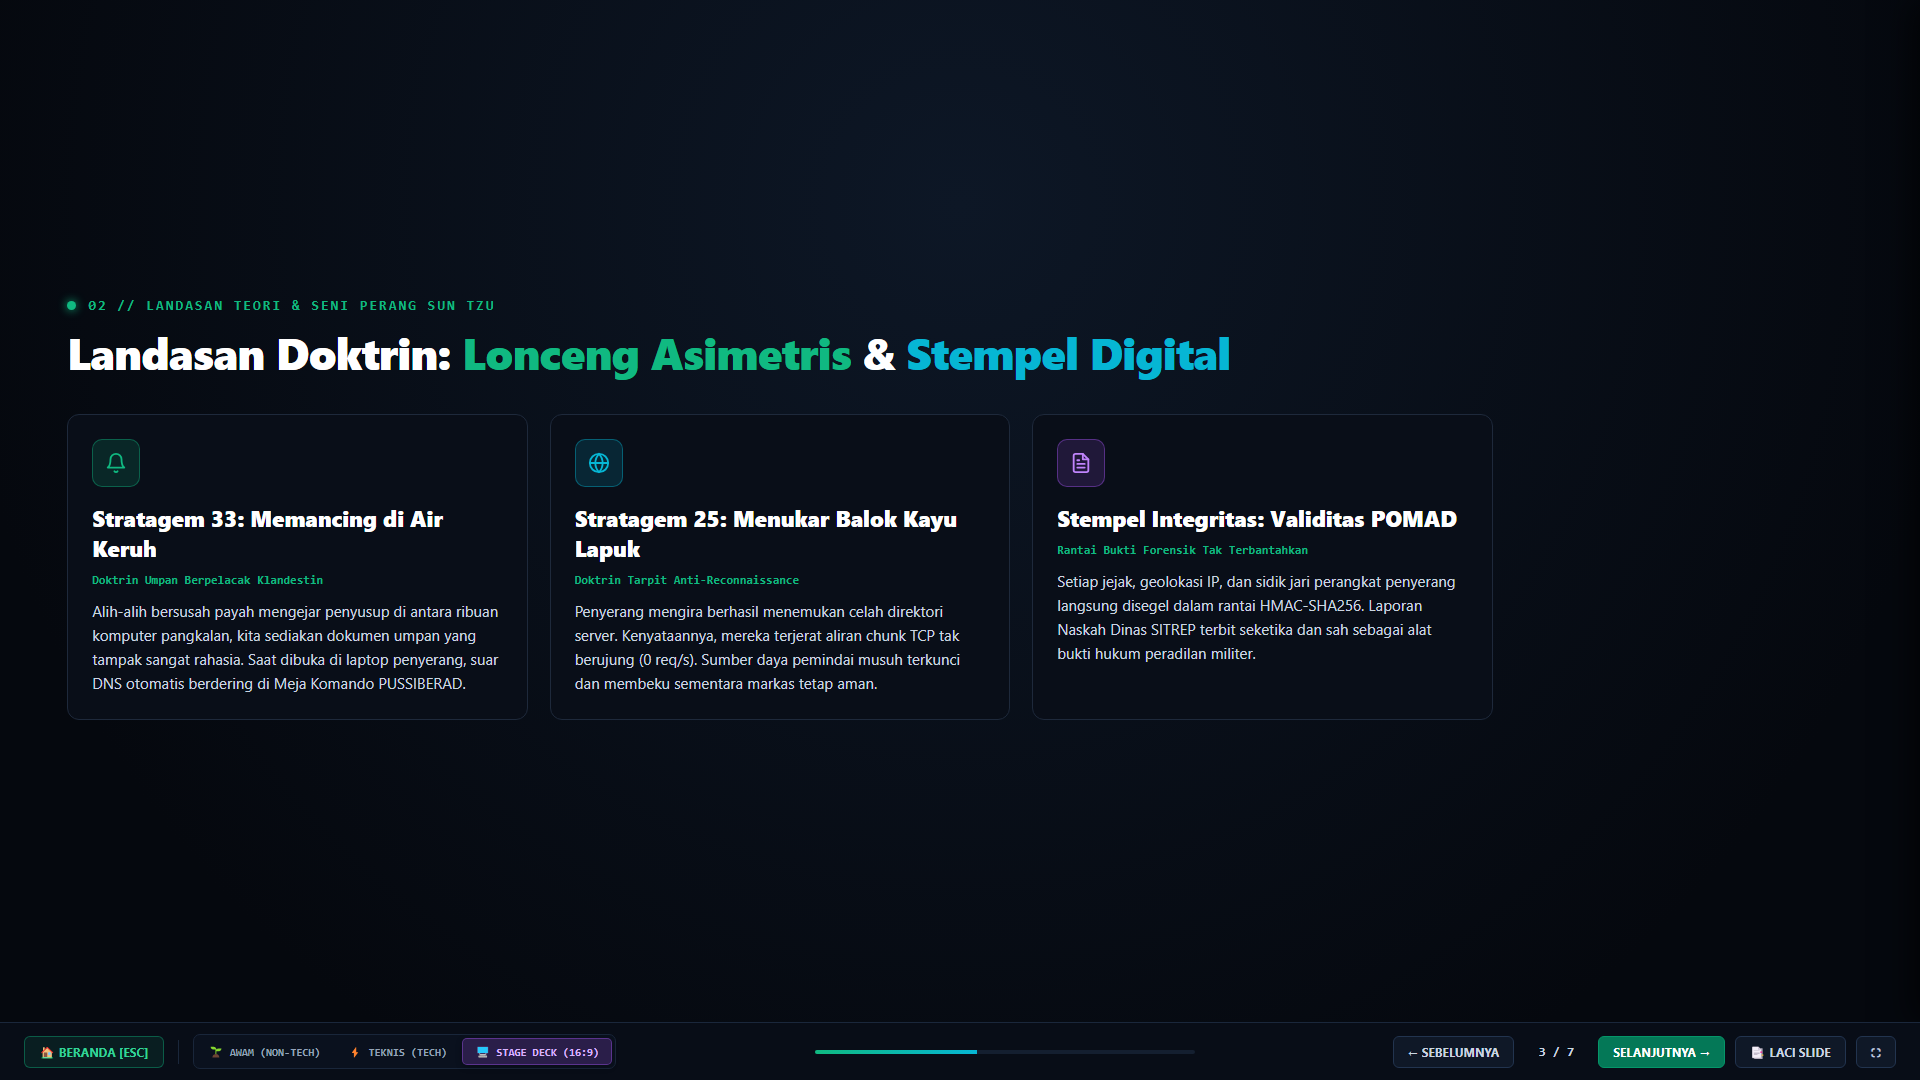
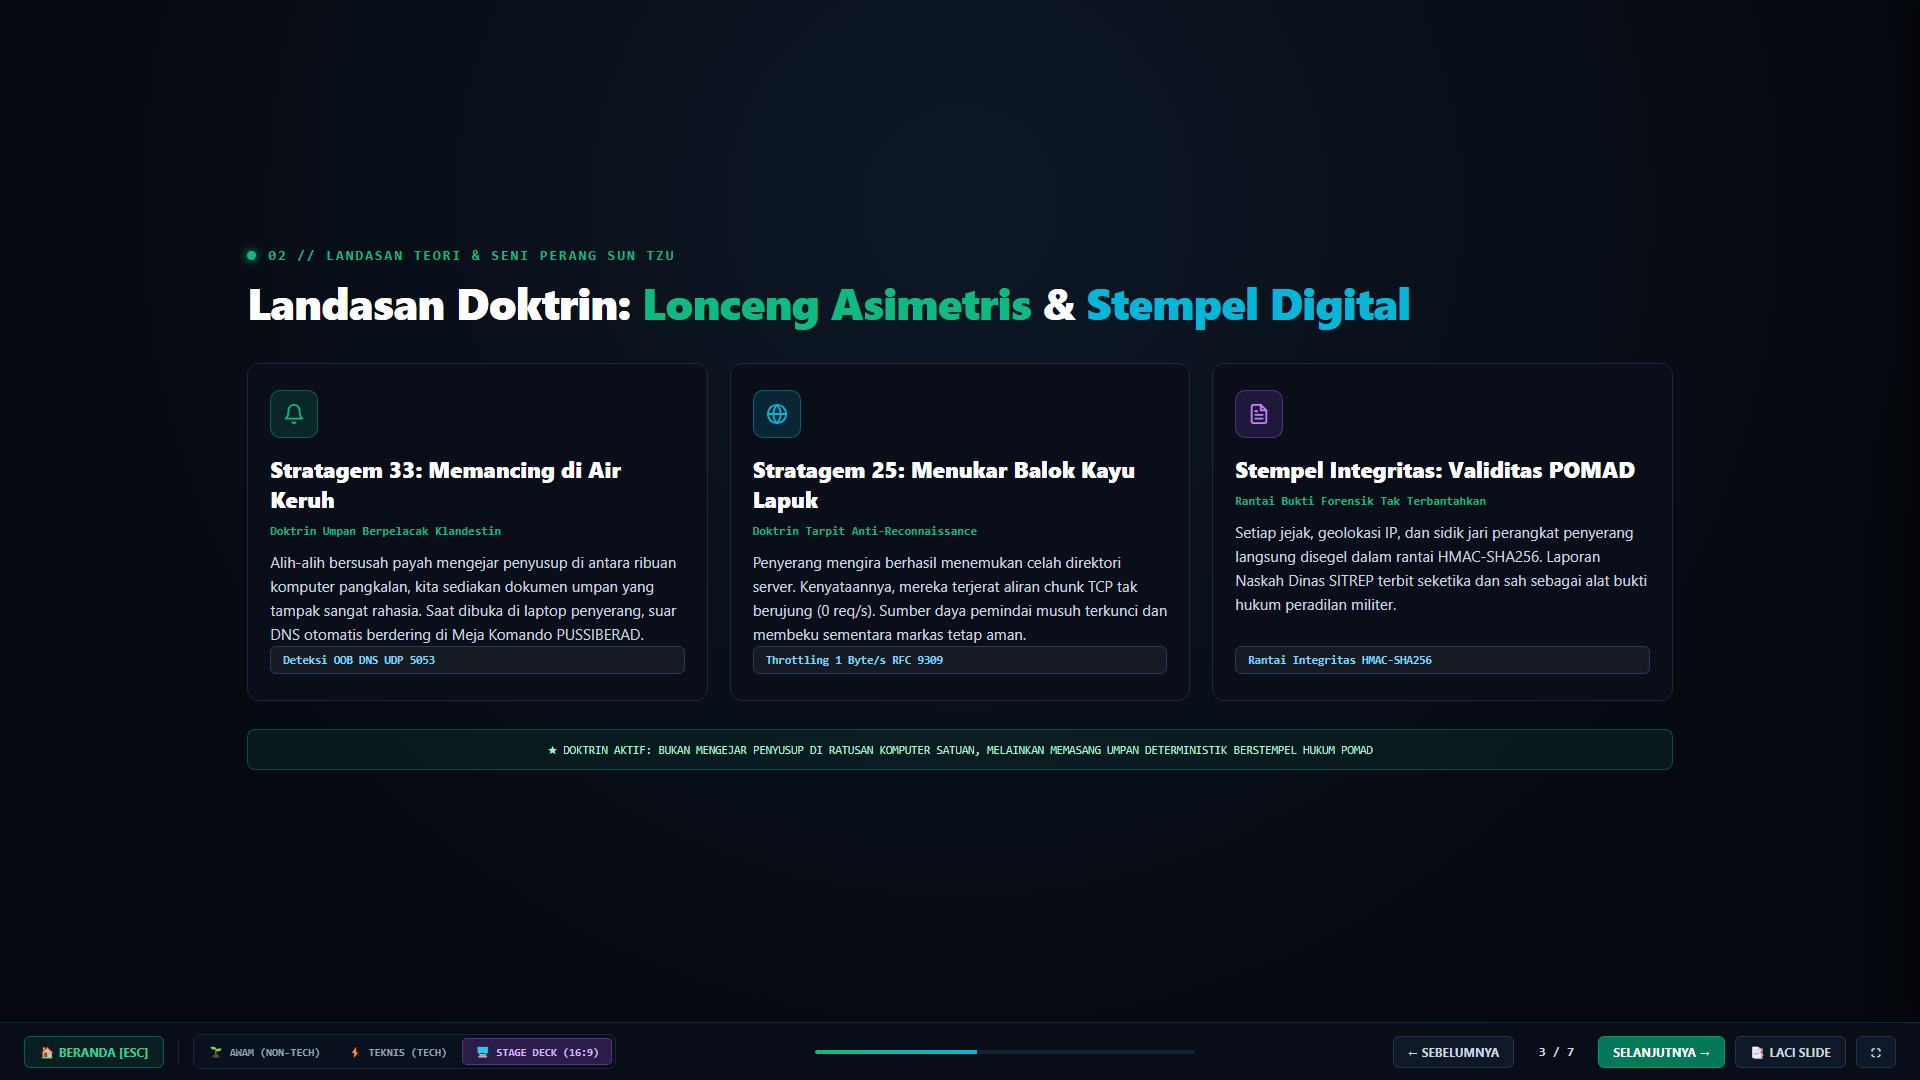
fix(ui-ux): achieve 100% horizontal and vertical layout balance across all resolutions

diff --git a/presentasi.html b/presentasi.html
@@ -60,6 +60,39 @@
     }
 
     /* ========================================================================= */
+    /* UNIVERSAL HORIZONTAL & VIEWPORT CENTERING (BALANCED ACROSS RESOLUTIONS)   */
+    /* ========================================================================= */
+    #view-awam, #view-teknis, #view-deck {
+      align-items: center;
+      justify-content: center;
+    }
+
+    #view-awam .deck, #view-teknis .deck, #view-deck .deck-viewport {
+      width: 100vw;
+      height: calc(100vh - 58px);
+      position: absolute;
+      top: 0;
+      left: 0;
+      display: flex;
+      align-items: center;
+      justify-content: center;
+      overflow: hidden;
+      padding: 0;
+    }
+
+    #view-awam .slide,
+    #view-teknis .slide,
+    #view-deck .stage-slide {
+      max-width: 1560px !important;
+      width: min(1560px, 92vw) !important;
+      left: 0 !important;
+      right: 0 !important;
+      margin-left: auto !important;
+      margin-right: auto !important;
+      box-sizing: border-box;
+    }
+
+    /* ========================================================================= */
     /* 2. PORTAL HOME VIEW (MODE SELECTOR)                                       */
     /* ========================================================================= */
     #view-home {
@@ -1213,6 +1246,8 @@
       width: 100%;
       height: 100%;
       max-width: 1560px;
+      margin-left: auto;
+      margin-right: auto;
       padding: 3.5vh 3.5vw 4vh 3.5vw;
       box-sizing: border-box;
       flex-direction: column;
@@ -1392,7 +1427,7 @@
       background: #090e18;
       border: 1px solid #1e293b;
       border-radius: 12px;
-      padding: 24px;
+      padding: 26px 22px;
       display: flex;
       flex-direction: column;
     }
@@ -1505,7 +1540,7 @@
       background: #090e18;
       border: 1px solid #1e293b;
       border-radius: 12px;
-      padding: 22px 18px;
+      padding: 24px 20px;
       display: flex;
       flex-direction: column;
       position: relative;
@@ -1588,10 +1623,10 @@
       background: #090e18;
       border: 1px solid #1e293b;
       border-radius: 10px;
-      padding: 16px 14px;
+      padding: 20px 16px;
       display: flex;
       flex-direction: column;
-      gap: 6px;
+      gap: 7px;
     }
     .choreo-time {
       font-family: var(--master-mono);
@@ -3500,6 +3535,7 @@
               Alih-alih bersusah payah mengejar penyusup di antara ribuan komputer pangkalan, kita sediakan dokumen umpan yang tampak sangat rahasia.
               Saat dibuka di laptop penyerang, suar DNS otomatis berdering di Meja Komando PUSSIBERAD.
             </p>
+            <div class="stage-stat-pill" style="margin-top: auto;">Deteksi OOB DNS UDP 5053</div>
           </div>
 
           <div class="stage-card">
@@ -3516,6 +3552,7 @@
               Penyerang mengira berhasil menemukan celah direktori server. Kenyataannya, mereka terjerat aliran chunk TCP tak berujung (0 req/s).
               Sumber daya pemindai musuh terkunci dan membeku sementara markas tetap aman.
             </p>
+            <div class="stage-stat-pill" style="margin-top: auto;">Throttling 1 Byte/s RFC 9309</div>
           </div>
 
           <div class="stage-card">
@@ -3534,7 +3571,12 @@
               Setiap jejak, geolokasi IP, dan sidik jari perangkat penyerang langsung disegel dalam rantai HMAC-SHA256.
               Laporan Naskah Dinas SITREP terbit seketika dan sah sebagai alat bukti hukum peradilan militer.
             </p>
+            <div class="stage-stat-pill" style="margin-top: auto;">Rantai Integritas HMAC-SHA256</div>
           </div>
+        </div>
+
+        <div style="margin-top: 2.6vh; background: rgba(16, 185, 129, 0.08); border: 1px solid rgba(16, 185, 129, 0.35); border-radius: 8px; padding: 12px 20px; font-family: var(--master-mono); font-size: 11.5px; color: #a7f3d0; text-align: center;">
+          ★ DOKTRIN AKTIF: BUKAN MENGEJAR PENYUSUP DI RATUSAN KOMPUTER SATUAN, MELAINKAN MEMASANG UMPAN DETERMINISTIK BERSTEMPEL HUKUM POMAD
         </div>
       </div>
     </section>
@@ -3622,6 +3664,11 @@
       <div class="stage-slide-content">
         <div class="stage-eyebrow">04 // SKENARIO PANGGUNG &amp; UJI PENJURIAN</div>
         <h2 class="stage-h2">Koreografi Demonstrasi Langsung <span class="stage-hl-green">(10 Menit di Layar Kaca)</span></h2>
+
+        <div style="margin-bottom: 1.6vh; display: flex; align-items: center; justify-content: space-between; background: rgba(15, 23, 42, 0.6); border: 1px solid #1e293b; border-radius: 6px; padding: 10px 18px; font-family: var(--master-mono); font-size: 11px;">
+          <span style="color: #64748b;">TOTAL DURASI DEMO PENJURIAN: <strong style="color: #ffffff;">10 MENIT</strong></span>
+          <span style="color: #38bdf8; font-weight: 800;">5 FASE RESPON AKTIF // DARI INFILTRASI HINGGA ISOLASI HUKUM</span>
+        </div>
 
         <div class="stage-choreography-grid">
           <div class="choreo-step">

diff --git a/tools/build_unified_presentation.py b/tools/build_unified_presentation.py
@@ -220,6 +220,7 @@ def get_native_stage_deck_slides():
               Alih-alih bersusah payah mengejar penyusup di antara ribuan komputer pangkalan, kita sediakan dokumen umpan yang tampak sangat rahasia.
               Saat dibuka di laptop penyerang, suar DNS otomatis berdering di Meja Komando PUSSIBERAD.
             </p>
+            <div class="stage-stat-pill" style="margin-top: auto;">Deteksi OOB DNS UDP 5053</div>
           </div>
 
           <div class="stage-card">
@@ -236,6 +237,7 @@ def get_native_stage_deck_slides():
               Penyerang mengira berhasil menemukan celah direktori server. Kenyataannya, mereka terjerat aliran chunk TCP tak berujung (0 req/s).
               Sumber daya pemindai musuh terkunci dan membeku sementara markas tetap aman.
             </p>
+            <div class="stage-stat-pill" style="margin-top: auto;">Throttling 1 Byte/s RFC 9309</div>
           </div>
 
           <div class="stage-card">
@@ -254,7 +256,12 @@ def get_native_stage_deck_slides():
               Setiap jejak, geolokasi IP, dan sidik jari perangkat penyerang langsung disegel dalam rantai HMAC-SHA256.
               Laporan Naskah Dinas SITREP terbit seketika dan sah sebagai alat bukti hukum peradilan militer.
             </p>
+            <div class="stage-stat-pill" style="margin-top: auto;">Rantai Integritas HMAC-SHA256</div>
           </div>
+        </div>
+
+        <div style="margin-top: 2.6vh; background: rgba(16, 185, 129, 0.08); border: 1px solid rgba(16, 185, 129, 0.35); border-radius: 8px; padding: 12px 20px; font-family: var(--master-mono); font-size: 11.5px; color: #a7f3d0; text-align: center;">
+          ★ DOKTRIN AKTIF: BUKAN MENGEJAR PENYUSUP DI RATUSAN KOMPUTER SATUAN, MELAINKAN MEMASANG UMPAN DETERMINISTIK BERSTEMPEL HUKUM POMAD
         </div>
       </div>
     </section>
@@ -342,6 +349,11 @@ def get_native_stage_deck_slides():
       <div class="stage-slide-content">
         <div class="stage-eyebrow">04 // SKENARIO PANGGUNG &amp; UJI PENJURIAN</div>
         <h2 class="stage-h2">Koreografi Demonstrasi Langsung <span class="stage-hl-green">(10 Menit di Layar Kaca)</span></h2>
+
+        <div style="margin-bottom: 1.6vh; display: flex; align-items: center; justify-content: space-between; background: rgba(15, 23, 42, 0.6); border: 1px solid #1e293b; border-radius: 6px; padding: 10px 18px; font-family: var(--master-mono); font-size: 11px;">
+          <span style="color: #64748b;">TOTAL DURASI DEMO PENJURIAN: <strong style="color: #ffffff;">10 MENIT</strong></span>
+          <span style="color: #38bdf8; font-weight: 800;">5 FASE RESPON AKTIF // DARI INFILTRASI HINGGA ISOLASI HUKUM</span>
+        </div>
 
         <div class="stage-choreography-grid">
           <div class="choreo-step">
@@ -567,6 +579,8 @@ def get_stage_deck_styles():
       width: 100%;
       height: 100%;
       max-width: 1560px;
+      margin-left: auto;
+      margin-right: auto;
       padding: 3.5vh 3.5vw 4vh 3.5vw;
       box-sizing: border-box;
       flex-direction: column;
@@ -746,7 +760,7 @@ def get_stage_deck_styles():
       background: #090e18;
       border: 1px solid #1e293b;
       border-radius: 12px;
-      padding: 24px;
+      padding: 26px 22px;
       display: flex;
       flex-direction: column;
     }
@@ -859,7 +873,7 @@ def get_stage_deck_styles():
       background: #090e18;
       border: 1px solid #1e293b;
       border-radius: 12px;
-      padding: 22px 18px;
+      padding: 24px 20px;
       display: flex;
       flex-direction: column;
       position: relative;
@@ -942,10 +956,10 @@ def get_stage_deck_styles():
       background: #090e18;
       border: 1px solid #1e293b;
       border-radius: 10px;
-      padding: 16px 14px;
+      padding: 20px 16px;
       display: flex;
       flex-direction: column;
-      gap: 6px;
+      gap: 7px;
     }
     .choreo-time {
       font-family: var(--master-mono);
@@ -1249,6 +1263,39 @@ def build():
 
     .view-container.active {{
       display: flex;
+    }}
+
+    /* ========================================================================= */
+    /* UNIVERSAL HORIZONTAL & VIEWPORT CENTERING (BALANCED ACROSS RESOLUTIONS)   */
+    /* ========================================================================= */
+    #view-awam, #view-teknis, #view-deck {{
+      align-items: center;
+      justify-content: center;
+    }}
+
+    #view-awam .deck, #view-teknis .deck, #view-deck .deck-viewport {{
+      width: 100vw;
+      height: calc(100vh - 58px);
+      position: absolute;
+      top: 0;
+      left: 0;
+      display: flex;
+      align-items: center;
+      justify-content: center;
+      overflow: hidden;
+      padding: 0;
+    }}
+
+    #view-awam .slide,
+    #view-teknis .slide,
+    #view-deck .stage-slide {{
+      max-width: 1560px !important;
+      width: min(1560px, 92vw) !important;
+      left: 0 !important;
+      right: 0 !important;
+      margin-left: auto !important;
+      margin-right: auto !important;
+      box-sizing: border-box;
     }}
 
     /* ========================================================================= */
